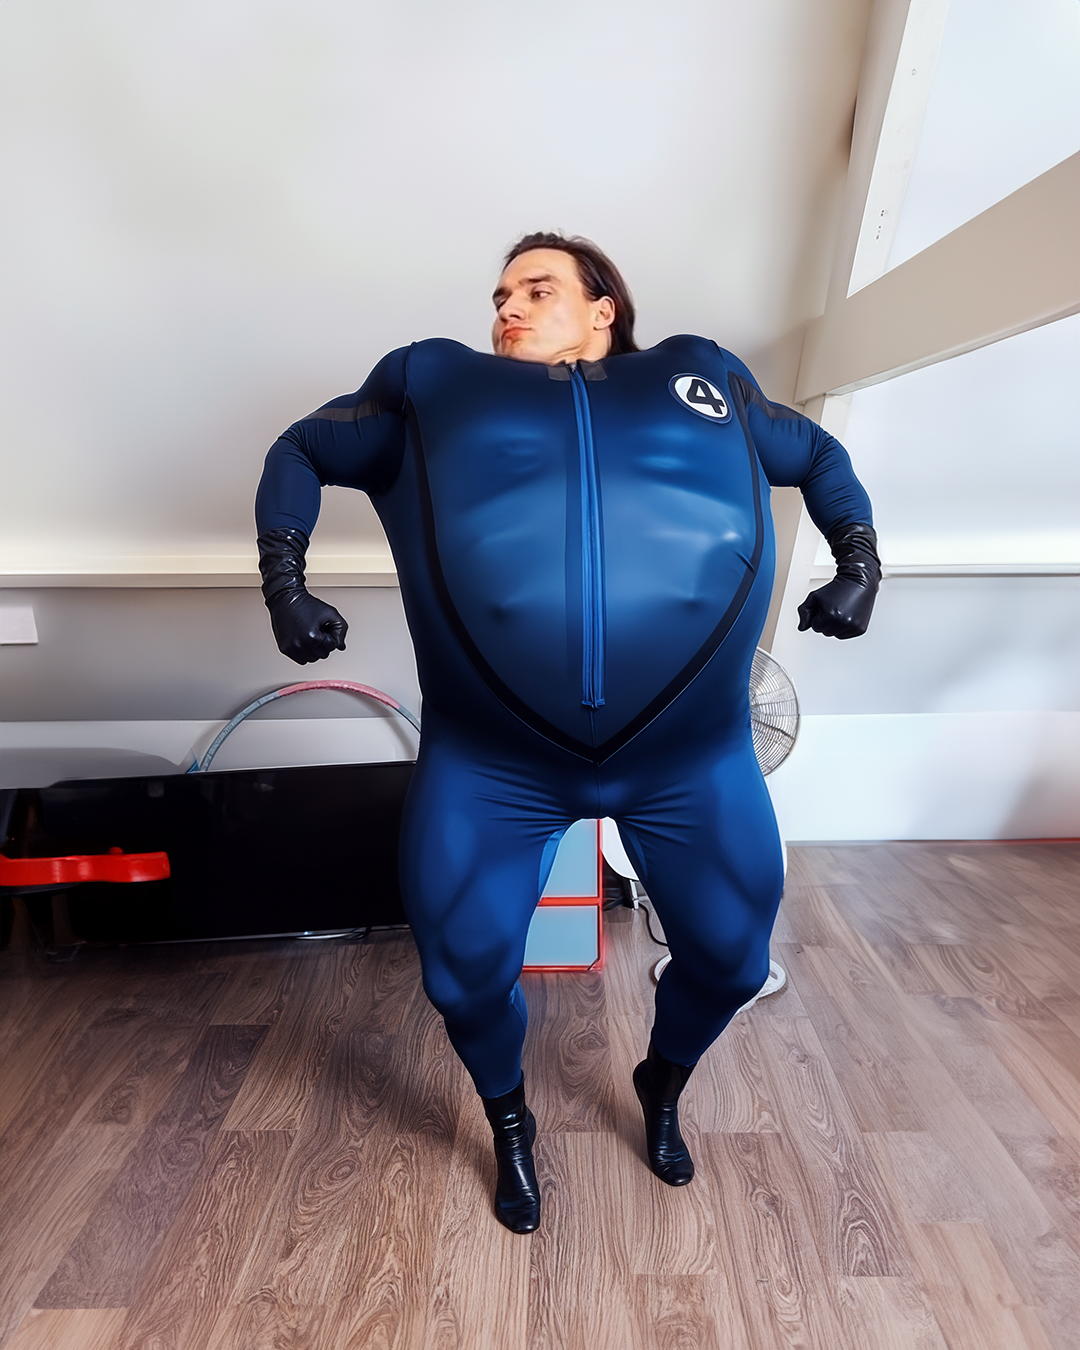
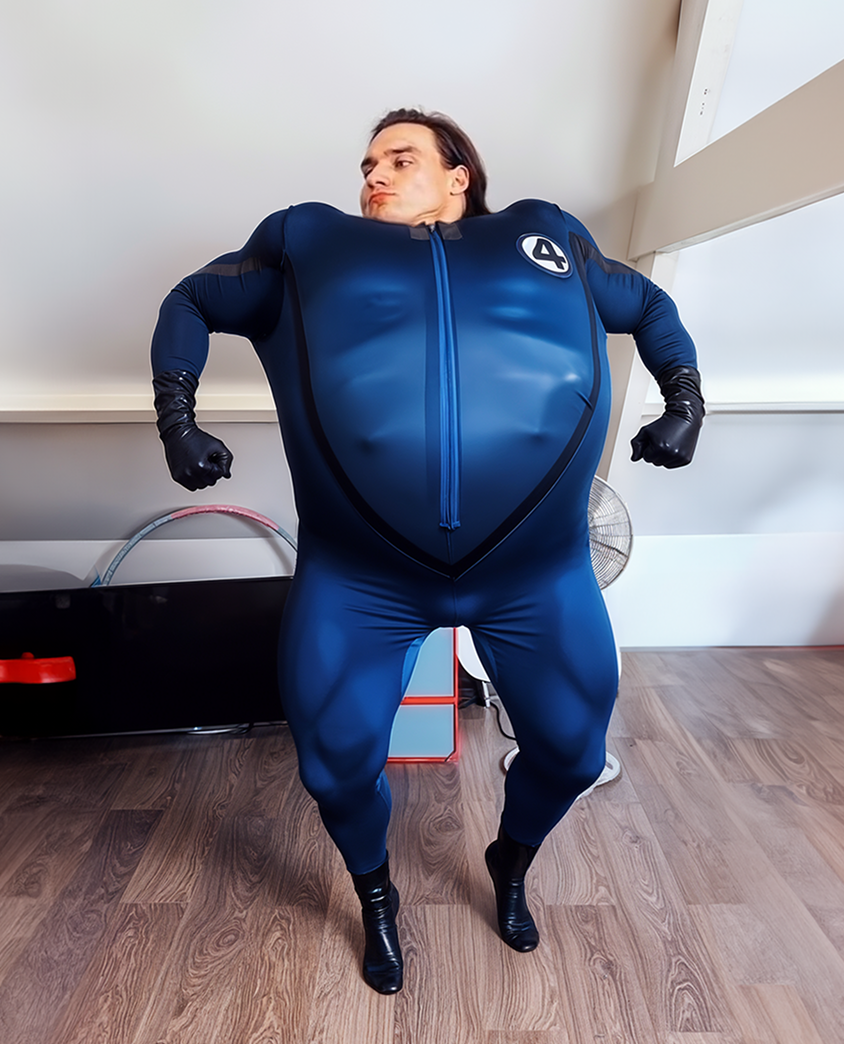
update image url

diff --git a/config/data.ts b/config/data.ts
@@ -423,7 +423,7 @@ export const gallerySilderData = [
   { url: "/assets/gallery-img/fontaine-from-genshin-impact.png" },
   { url: "/assets/gallery-img/starfire-2.png" },
   { url: "/assets/gallery-img/mr-fantastic-2.png" },
-  { url: "/assets/gallery-img/mr-fantastic-2.png" },
+  { url: "/assets/gallery-img/fantastic.png" },
   { url: "/assets/gallery-img/wizard.png" },
   { url: "/assets/gallery-img/invisible-woman.png" },
   { url: "/assets/gallery-img/gyro-zeppeli.png" },
